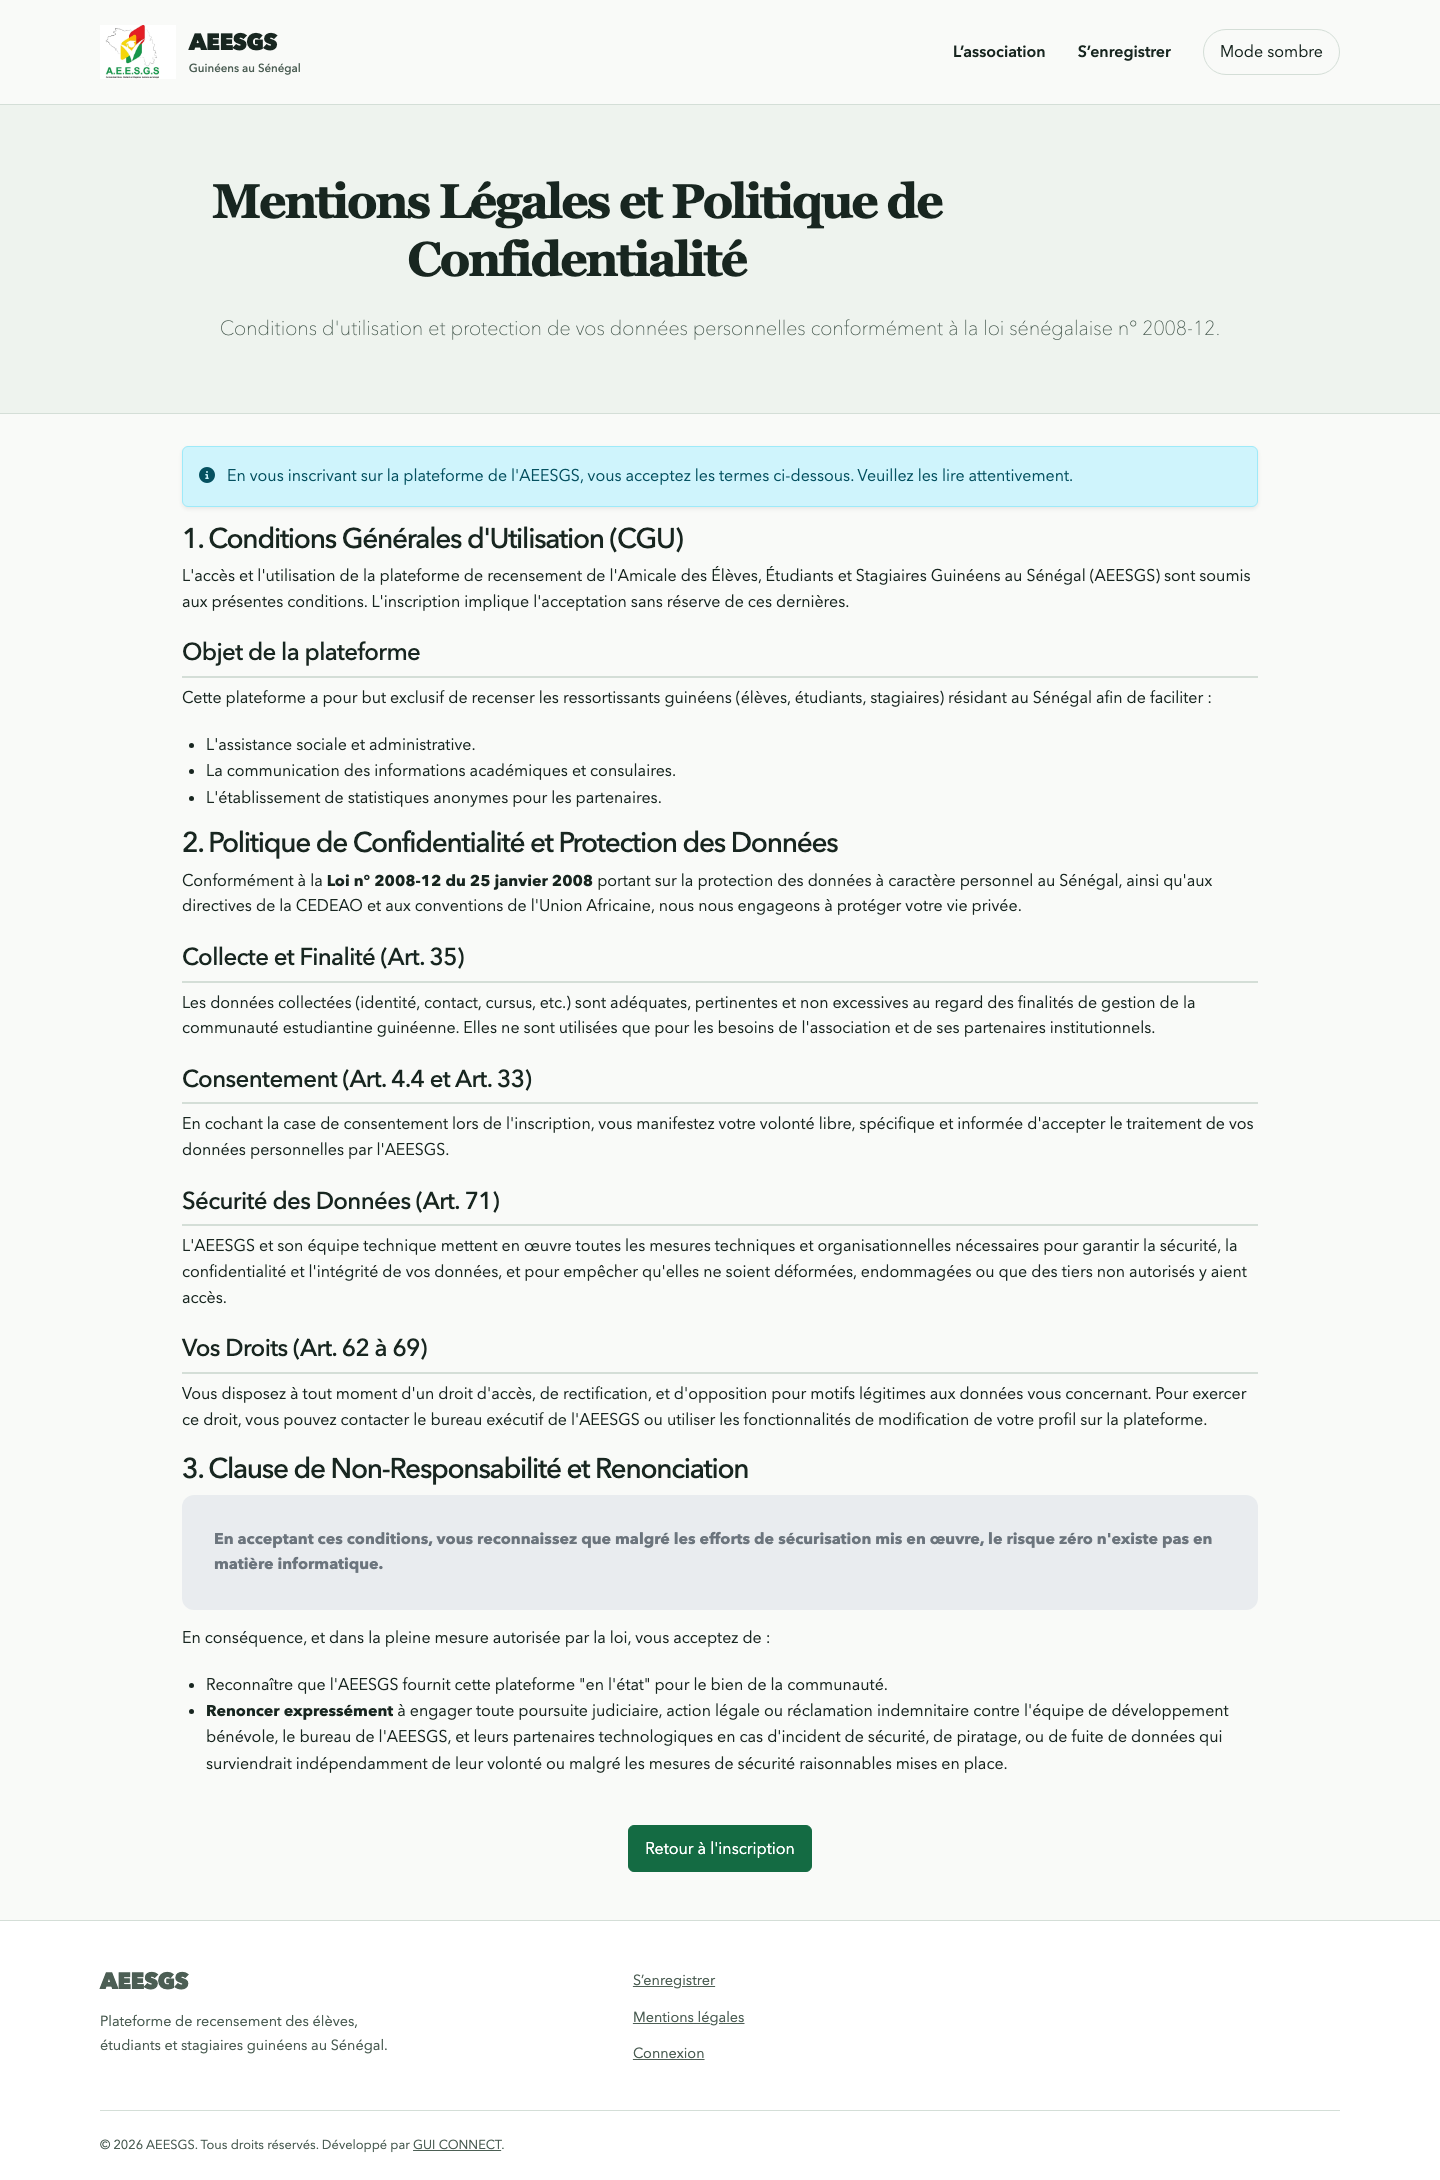
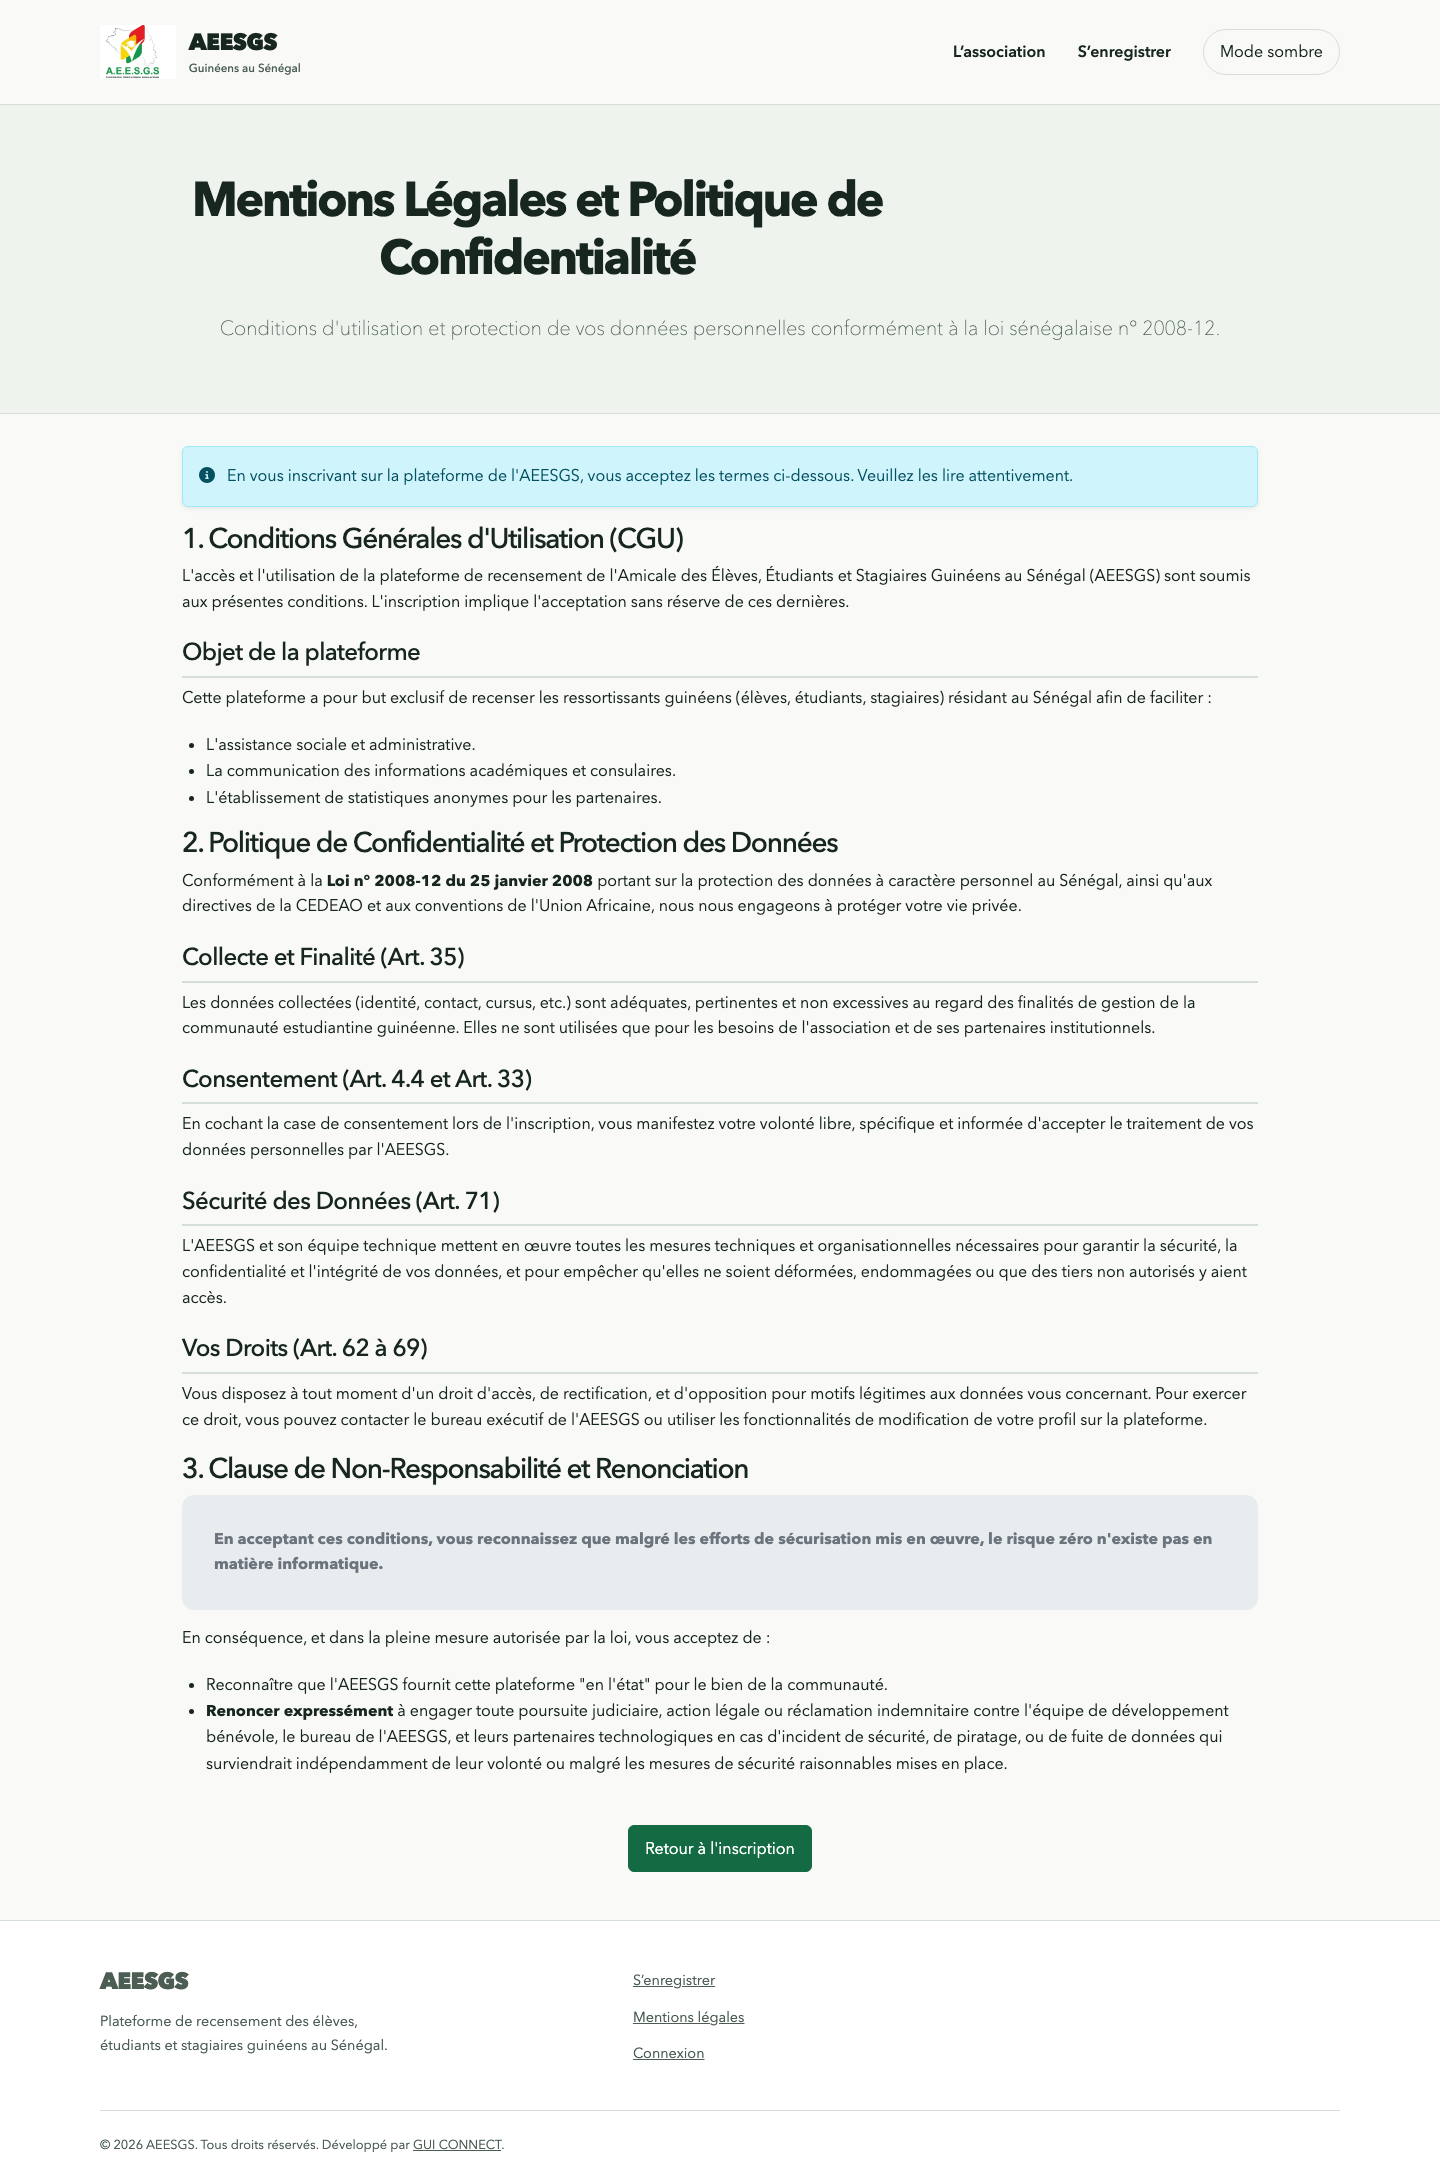
docs: verify sans typography across secure member journeys

Changed region(s): [[0.125, 0.0624, 0.6562, 0.1248]]

diff --git a/completion.md b/completion.md
@@ -122,3 +122,5 @@ Implemented shared public form shell, responsive light/dark registration and rev
 TDD public-shell tracer failed before implementation then passed. Local final evidence:35 HTTP +12 real Chrome assertions; eight registration/review screenshots (desktop1440/mobile390+320, light/dark), visually inspected. HTTP covers retained escaped input, upload MIME rejection with retained values, owner/foreign staged previews, review CSRF, confirmation and persisted authorized download; staff field identities aligned. PHPUnit140/240 (10 existing deprecations), permissions47, OOP186, integration78, password24 passed. [Evidence and limits](docs/testing/registration-public-journey.md). No production or SMTP action. Exact-head remote CI/integration merge and full-spec release remain pending separately.
 
 Ticket03 visual review follow-up: removed the unintended Georgia heading override so public forms inherit the approved direction B sans typography. After integrating `c075de3`, reran35 HTTP +12 Chrome checks successfully, including320px registration/review overflow checks; refreshed eight screenshots and inspected mobile heading fit. CSS-only correction; PHP suites were not repeated for this visual-only change.
+
+Ticket04 typography follow-up: after ticket03's shared H1 sans-serif correction, reran token HTTP28/Chrome61 on the merged tree and refreshed all12 correction/consent/legal captures. No PHP change; previous PHP regression evidence remains applicable.

diff --git a/docs/testing/member-completion.md b/docs/testing/member-completion.md
@@ -21,3 +21,5 @@ Chrome: 61 assertions cover correction, consent and legal pages at 1440px, 390px
 ## Boundaries
 
 Review tokens have no elapsed-time TTL in the existing schema/repository. “Invalid or expired” is qualified here through absent/revoked/deleted/status-invalid records; no time-based expiry is claimed or introduced. Refusal/deletion request preserves existing behavior: request notification is acknowledged without deleting the record; real SMTP delivery is untested. HTTP uses loopback sessions and SQLite fixtures, so it does not qualify TLS cookies, MySQL, two-app isolation, deployment or persistence. Those remain later tickets.
+
+Typography follow-up: shared public form headings inherit the approved B sans-serif font. The token HTTP28/Chrome61 suite was rerun and all12 captures refreshed after that shared CSS correction; no PHP behavior changed.
